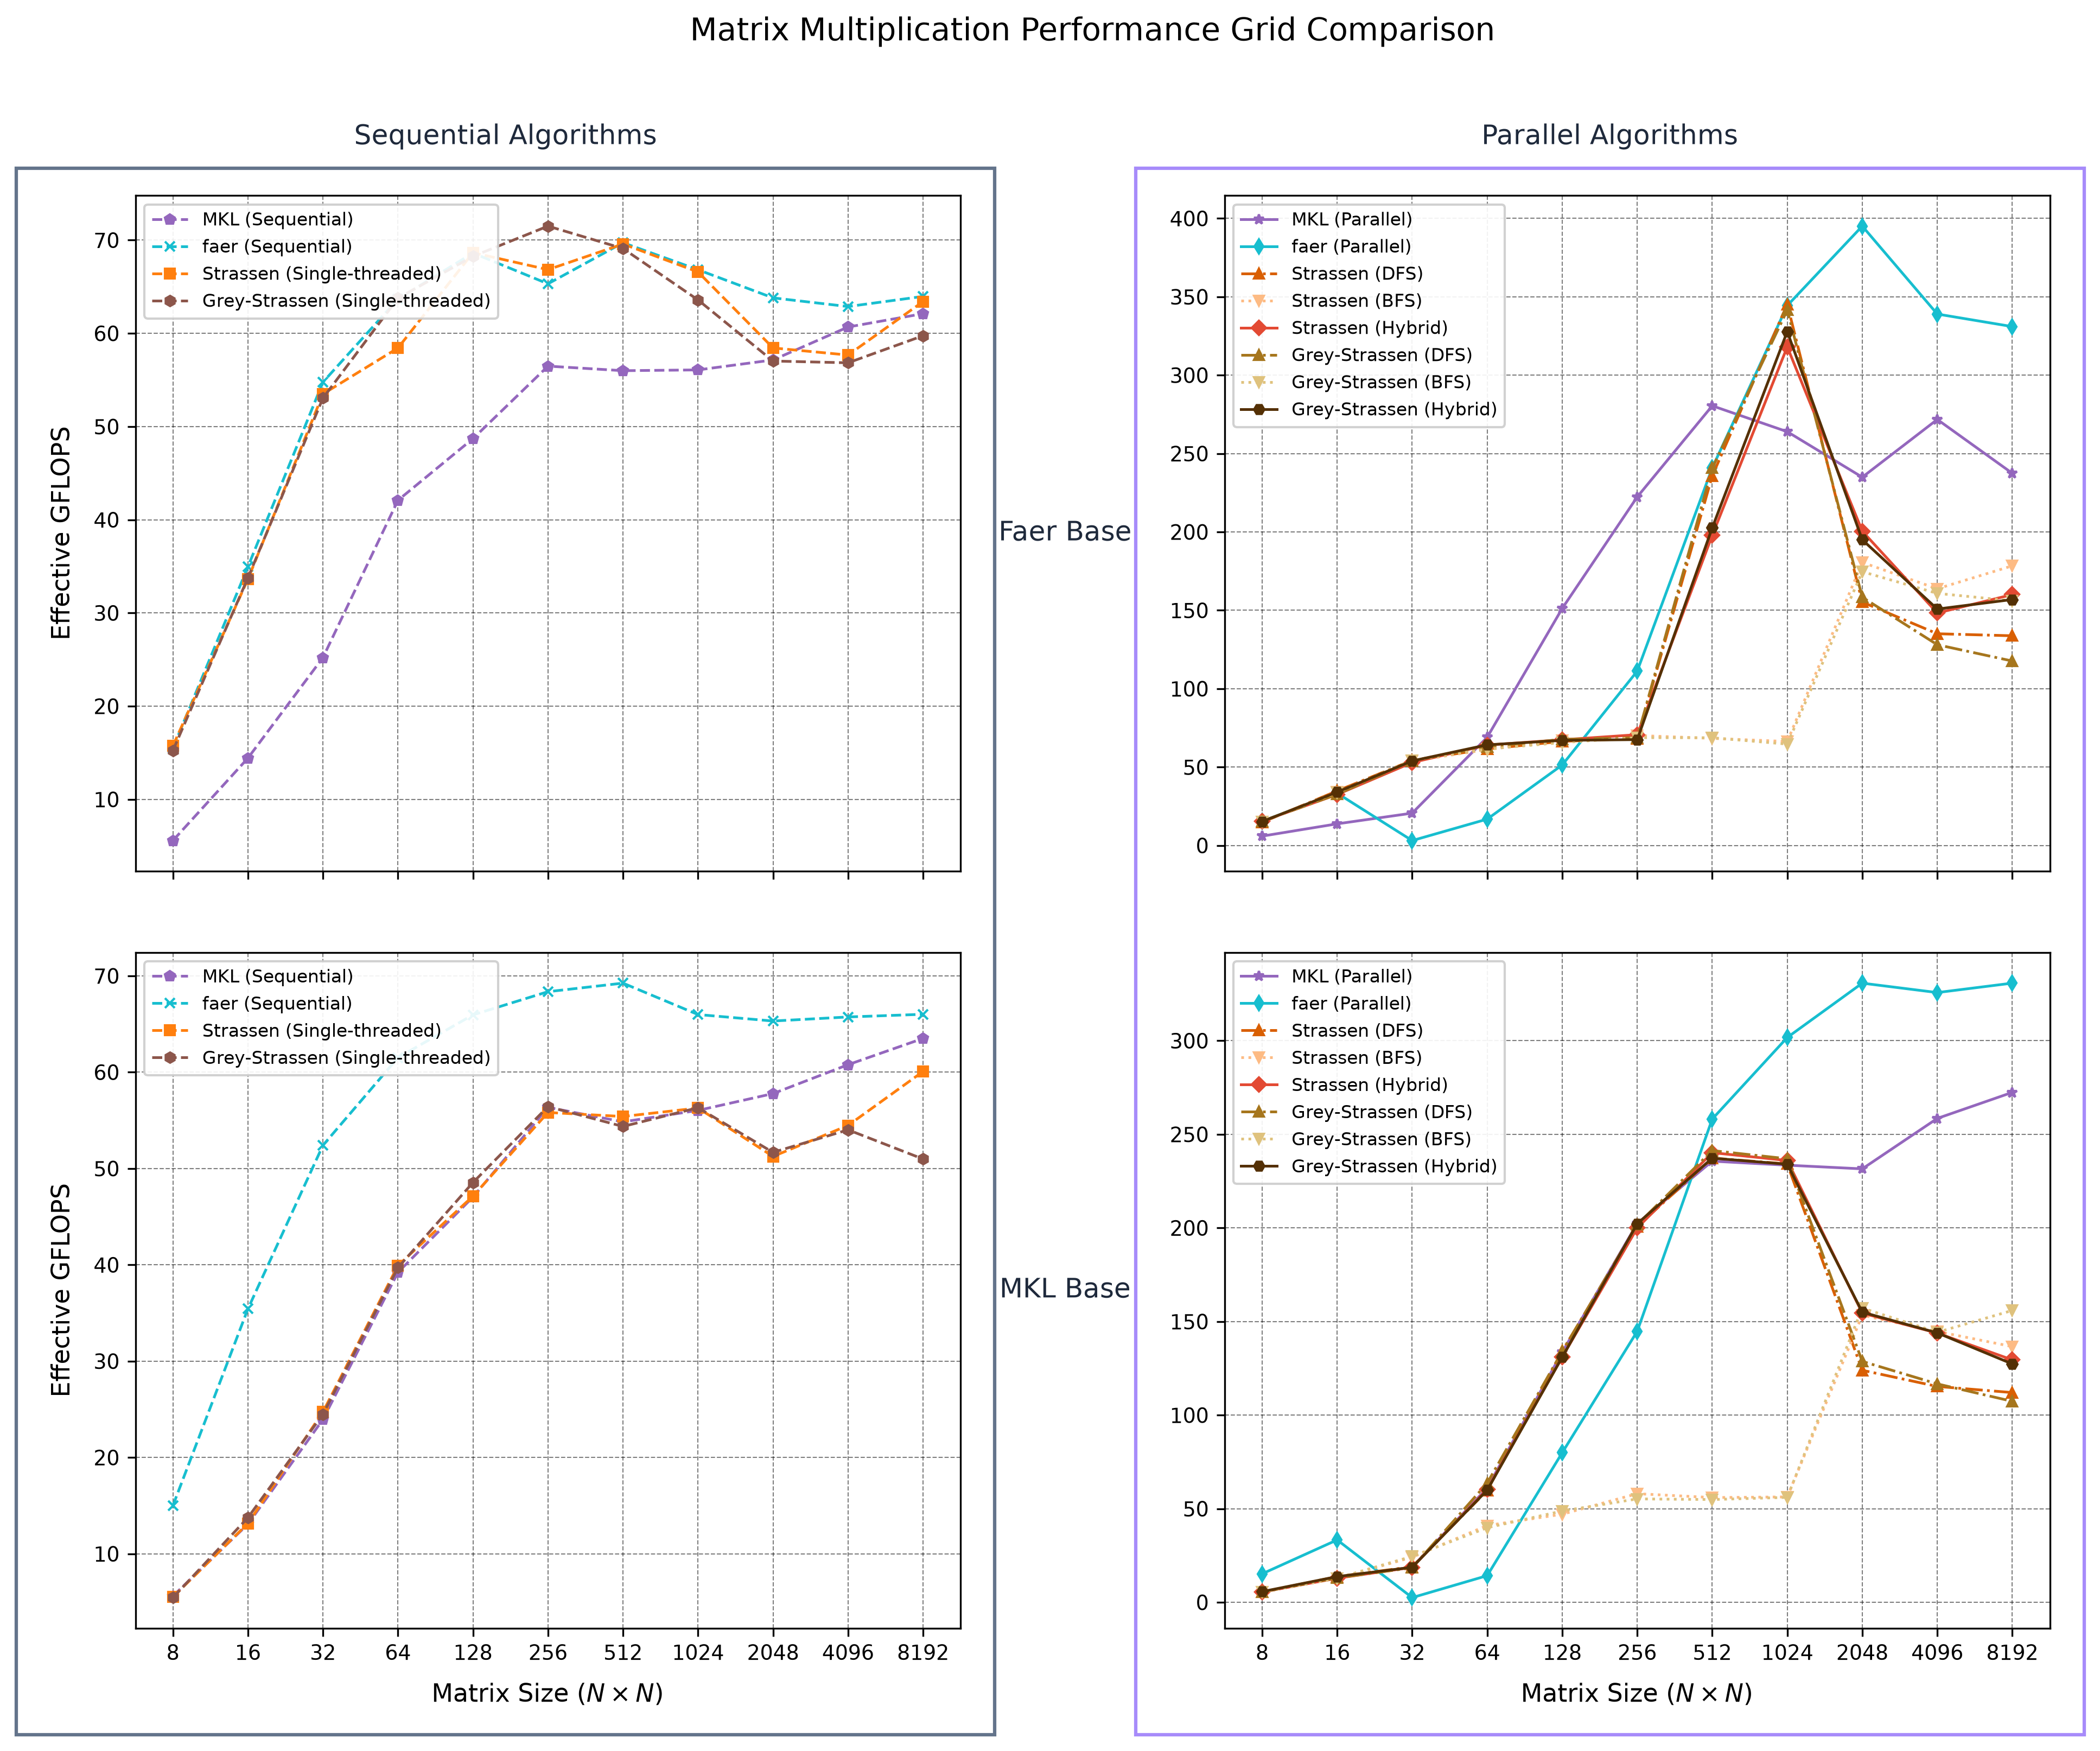
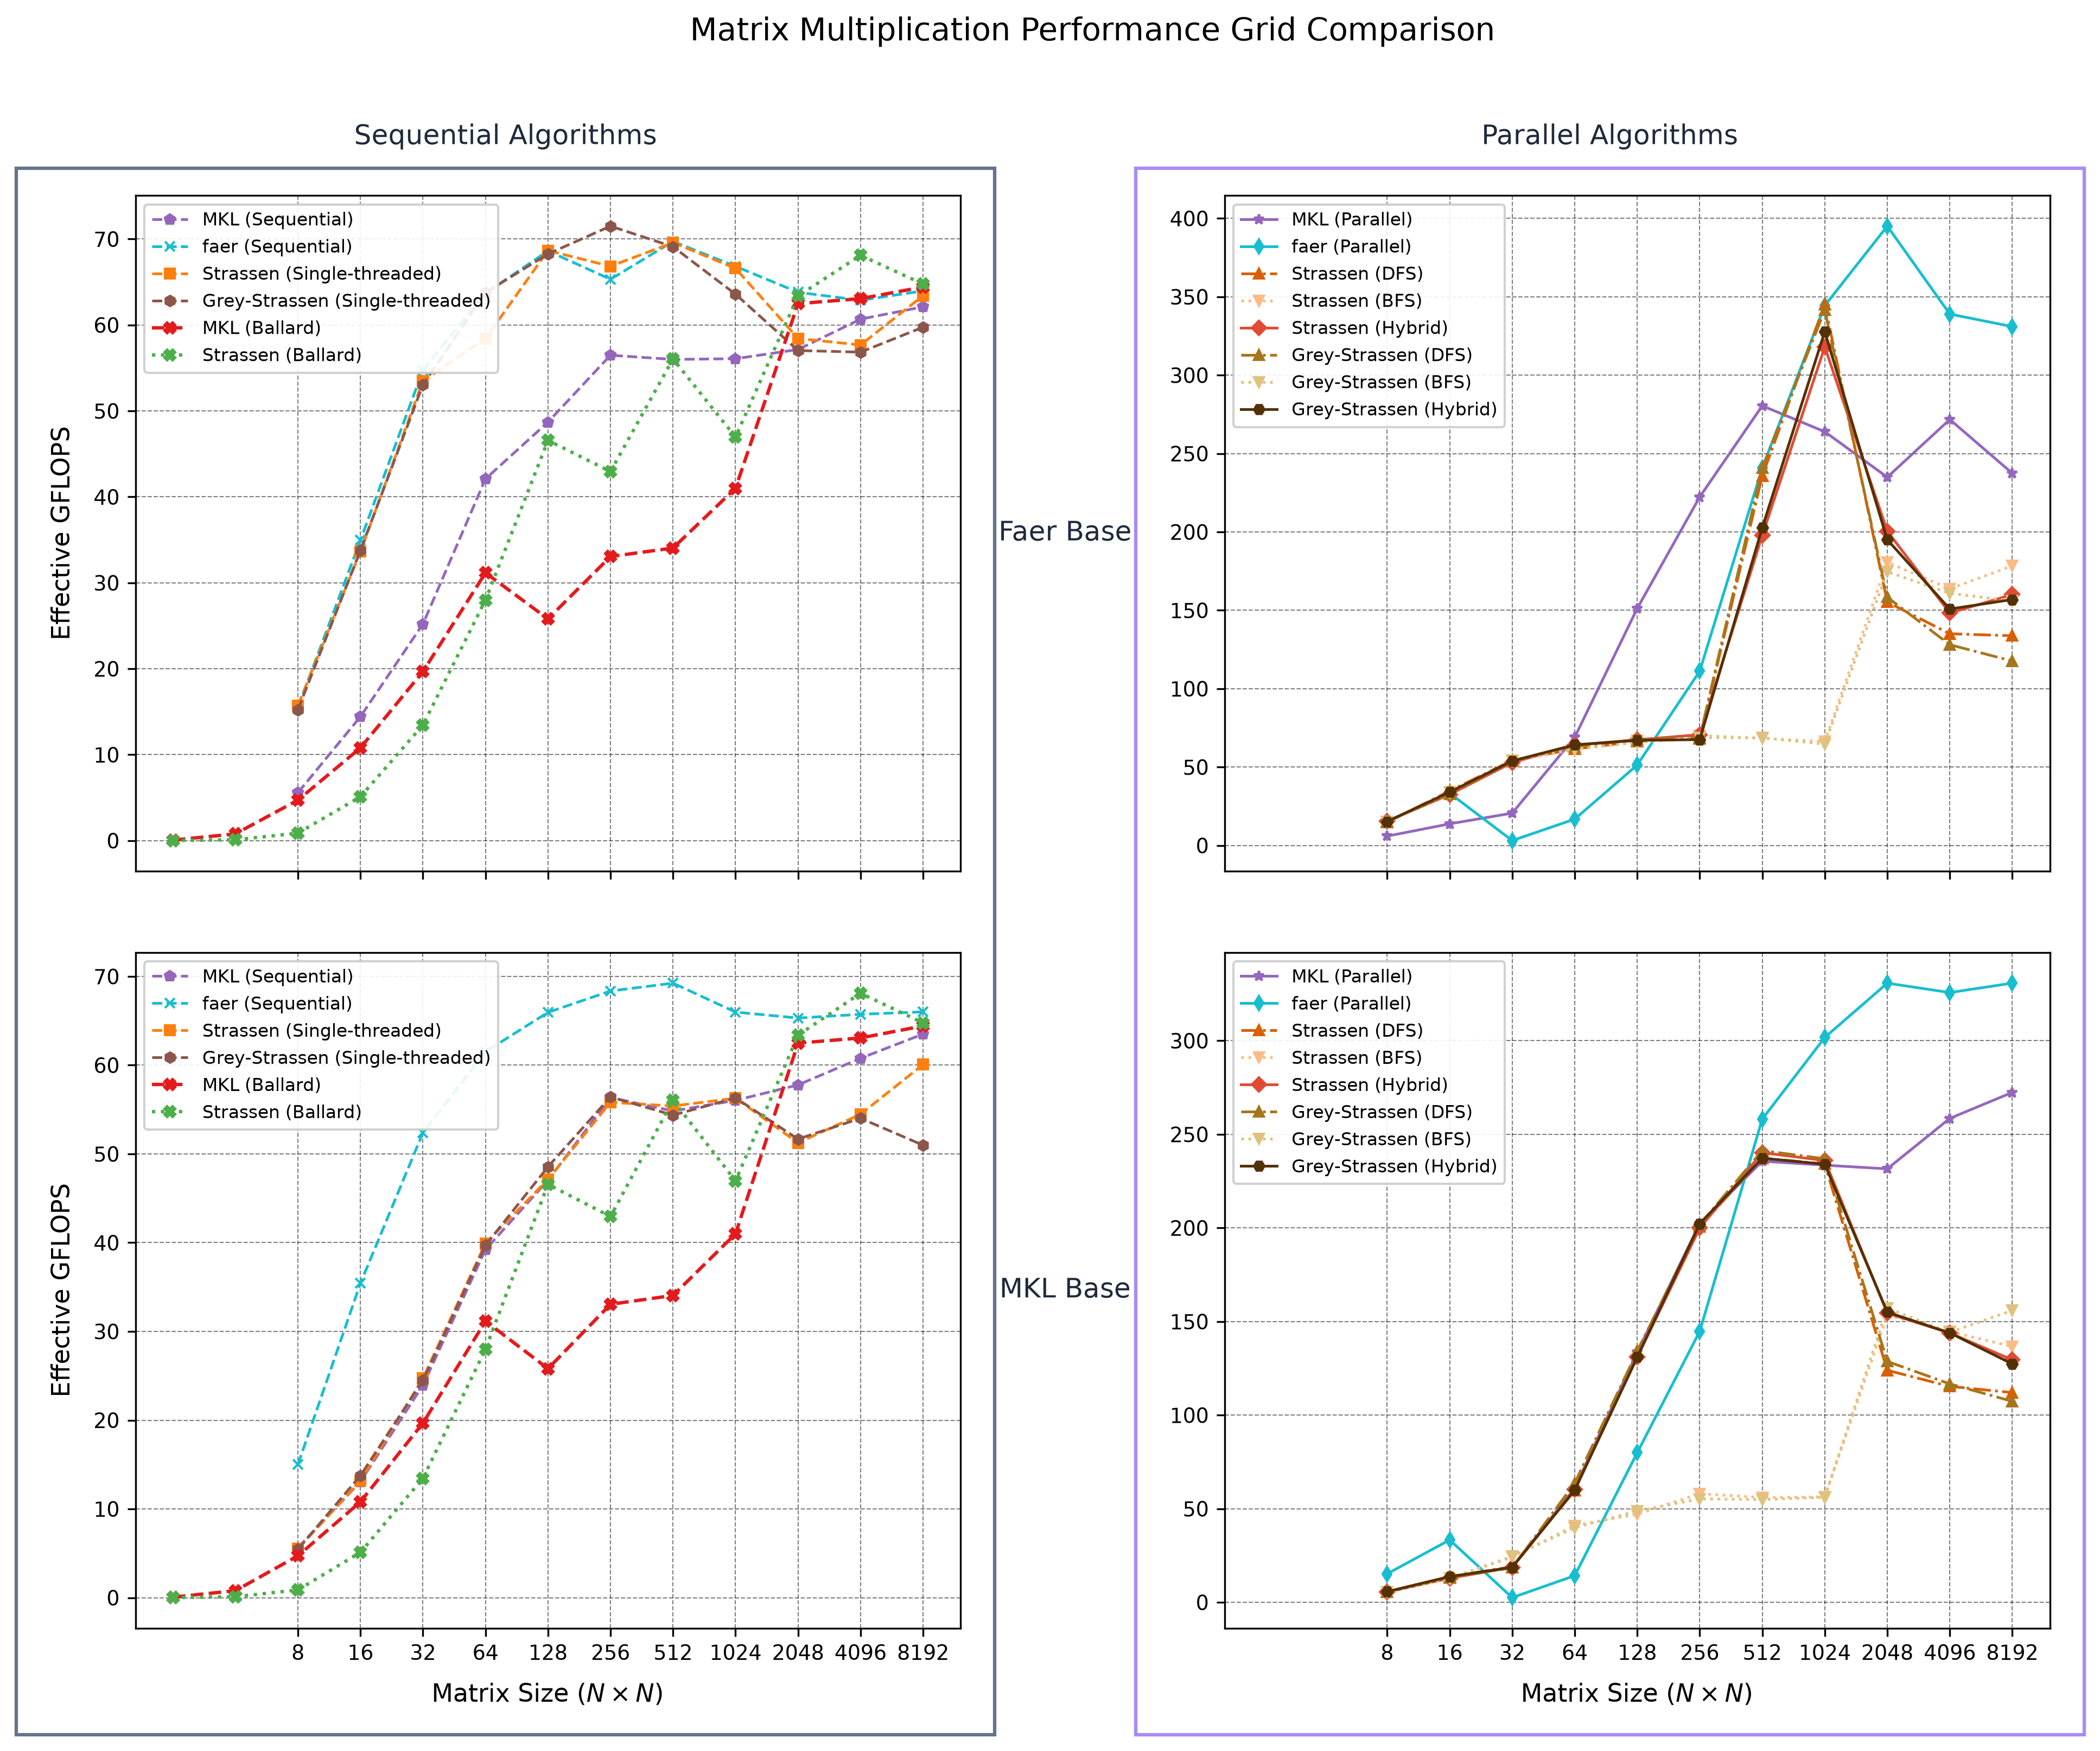
Update plot to include ballard data.

diff --git a/python/plot.py b/python/plot.py
@@ -7,6 +7,7 @@
 # ///
 
 import os
+import re
 import sys
 import pandas as pd
 import matplotlib.pyplot as plt
@@ -58,6 +59,67 @@ def format_label(col: str) -> str:
         return f"{name} {rank}/{mults} ({suffix_str})"
 
     return col.replace("_", " ").title()
+
+
+BALLARD_DATA_PATH = os.path.join(os.path.dirname(__file__), "ballard_data_sequential.txt")
+
+# Style for Ballard reference lines
+BALLARD_STYLES = {
+    "mkl_ballard": {"color": "#e41a1c", "marker": "X", "linestyle": "--", "linewidth": 1.5},
+    "strassen_ballard": {"color": "#4daf4a", "marker": "X", "linestyle": ":", "linewidth": 1.5},
+}
+
+
+def parse_matlab_vector(filepath: str, vec_name: str) -> pd.DataFrame:
+    """Parse a MATLAB-style vector definition from a text file.
+
+    Expected format:  NAME = [ P Q R steps time_ms ; ... ; ];
+
+    Args:
+        filepath: Path to the data file.
+        vec_name: Name of the vector (e.g. "MKL_0").
+
+    Returns:
+        DataFrame with integer size and time_ms columns, sorted by size.
+    """
+    with open(filepath) as f:
+        text = f.read()
+
+    pattern = re.compile(rf'{re.escape(vec_name)}\s*=\s*\[(.*?)\];', re.DOTALL)
+    match = pattern.search(text)
+    if not match:
+        raise ValueError(f"Vector '{vec_name}' not found in {filepath}")
+
+    rows = []
+    for entry in match.group(1).split(";"):
+        entry = entry.strip()
+        if not entry:
+            continue
+        parts = entry.split()
+        if len(parts) >= 5:
+            p = float(parts[0])
+            time_ms = float(parts[4])
+            rows.append({"size": p, "time_ms": time_ms})
+
+    df = pd.DataFrame(rows)
+    return df.sort_values("size").reset_index(drop=True)
+
+
+def plot_ballard_lines(ax: plt.Axes, df_ballard_mkl: pd.DataFrame, df_ballard_strassen: pd.DataFrame) -> None:
+    """Plot Ballard reference lines on a given axis.
+
+    Args:
+        ax: Matplotlib axis to plot on.
+        df_ballard_mkl: MKL Ballard data with size and time_ms columns.
+        df_ballard_strassen: Strassen Ballard data with size and time_ms columns.
+    """
+    for name, df in [("mkl_ballard", df_ballard_mkl), ("strassen_ballard", df_ballard_strassen)]:
+        style = BALLARD_STYLES[name]
+        time_s = df["time_ms"] / 1000.0
+        n = df["size"]
+        gflops = (2 * n ** 3 - 2 * n ** 2) / (time_s * 1e9)
+        label = "MKL (Ballard)" if name == "mkl_ballard" else "Strassen (Ballard)"
+        ax.plot(n, gflops, label=label, markersize=5.0, **style)
 
 
 def plot_csv(csv_path: str, output_path: str) -> None:
@@ -131,10 +193,21 @@ def plot_csv(csv_path: str, output_path: str) -> None:
             "marker": ">",
             "linestyle": "-",
         },
+        "mkl_ballard": BALLARD_STYLES["mkl_ballard"],
+        "strassen_ballard": BALLARD_STYLES["strassen_ballard"],
     }
 
     # Filter out very small sizes to focus on regions with algorithm differences
     df = df[df["size"] >= 8]
+
+    # Parse Ballard reference data
+    try:
+        df_mkl_ballard = parse_matlab_vector(BALLARD_DATA_PATH, "MKL_0")
+        df_strassen_ballard = parse_matlab_vector(BALLARD_DATA_PATH, "STRASSEN_1")
+        has_ballard = True
+    except Exception as e:
+        print(f"Warning: Could not parse Ballard data ({e})")
+        has_ballard = False
 
     # Plot each column except size (converting time to Effective GFLOPS)
     for col in df.columns:
@@ -152,6 +225,15 @@ def plot_csv(csv_path: str, output_path: str) -> None:
             markersize=4.5,
             **style,
         )
+
+    # Plot Ballard reference lines (only if sequential algorithms are present)
+    if has_ballard:
+        has_seq_col = any(
+            col != "size" and (col.endswith("_seq") or col.endswith("_single"))
+            for col in df.columns
+        )
+        if has_seq_col:
+            plot_ballard_lines(ax, df_mkl_ballard, df_strassen_ballard)
 
     # Configure axes
     ax.set_xscale("log", base=2)
@@ -280,7 +362,18 @@ def generate_grid_plot(
             "marker": ">",
             "linestyle": "-",
         },
+        "mkl_ballard": BALLARD_STYLES["mkl_ballard"],
+        "strassen_ballard": BALLARD_STYLES["strassen_ballard"],
     }
+
+    # Parse Ballard reference data
+    try:
+        df_mkl_ballard = parse_matlab_vector(BALLARD_DATA_PATH, "MKL_0")
+        df_strassen_ballard = parse_matlab_vector(BALLARD_DATA_PATH, "STRASSEN_1")
+        has_ballard = True
+    except Exception as e:
+        print(f"Warning: Could not parse Ballard data ({e})")
+        has_ballard = False
 
     # Helpers to filter columns
     def is_seq(col: str) -> bool:
@@ -295,7 +388,7 @@ def generate_grid_plot(
         )
 
     # Helper to plot on a specific axis
-    def plot_on_ax(ax, df, filter_fn):
+    def plot_on_ax(ax, df, filter_fn, sequential=False):
         ax.set_facecolor("none")
         ax.set_xscale("log", base=2)
         ax.set_yscale("linear")
@@ -325,16 +418,19 @@ def generate_grid_plot(
         ax.set_xticks(df["size"])
         ax.get_xaxis().set_major_formatter(plt.ScalarFormatter())
 
+        if has_ballard and sequential:
+            plot_ballard_lines(ax, df_mkl_ballard, df_strassen_ballard)
+
         if has_lines:
             ax.legend(loc="upper left", frameon=True, framealpha=0.9)
 
     # Plot Row 1: Faer Base
-    plot_on_ax(axs[0, 0], df_faer, is_seq)
-    plot_on_ax(axs[0, 1], df_faer, is_par)
+    plot_on_ax(axs[0, 0], df_faer, is_seq, sequential=True)
+    plot_on_ax(axs[0, 1], df_faer, is_par, sequential=False)
 
     # Plot Row 2: MKL Base
-    plot_on_ax(axs[1, 0], df_dgemm, is_seq)
-    plot_on_ax(axs[1, 1], df_dgemm, is_par)
+    plot_on_ax(axs[1, 0], df_dgemm, is_seq, sequential=True)
+    plot_on_ax(axs[1, 1], df_dgemm, is_par, sequential=False)
 
     # Shared labels
     for ax in axs[1, :]: